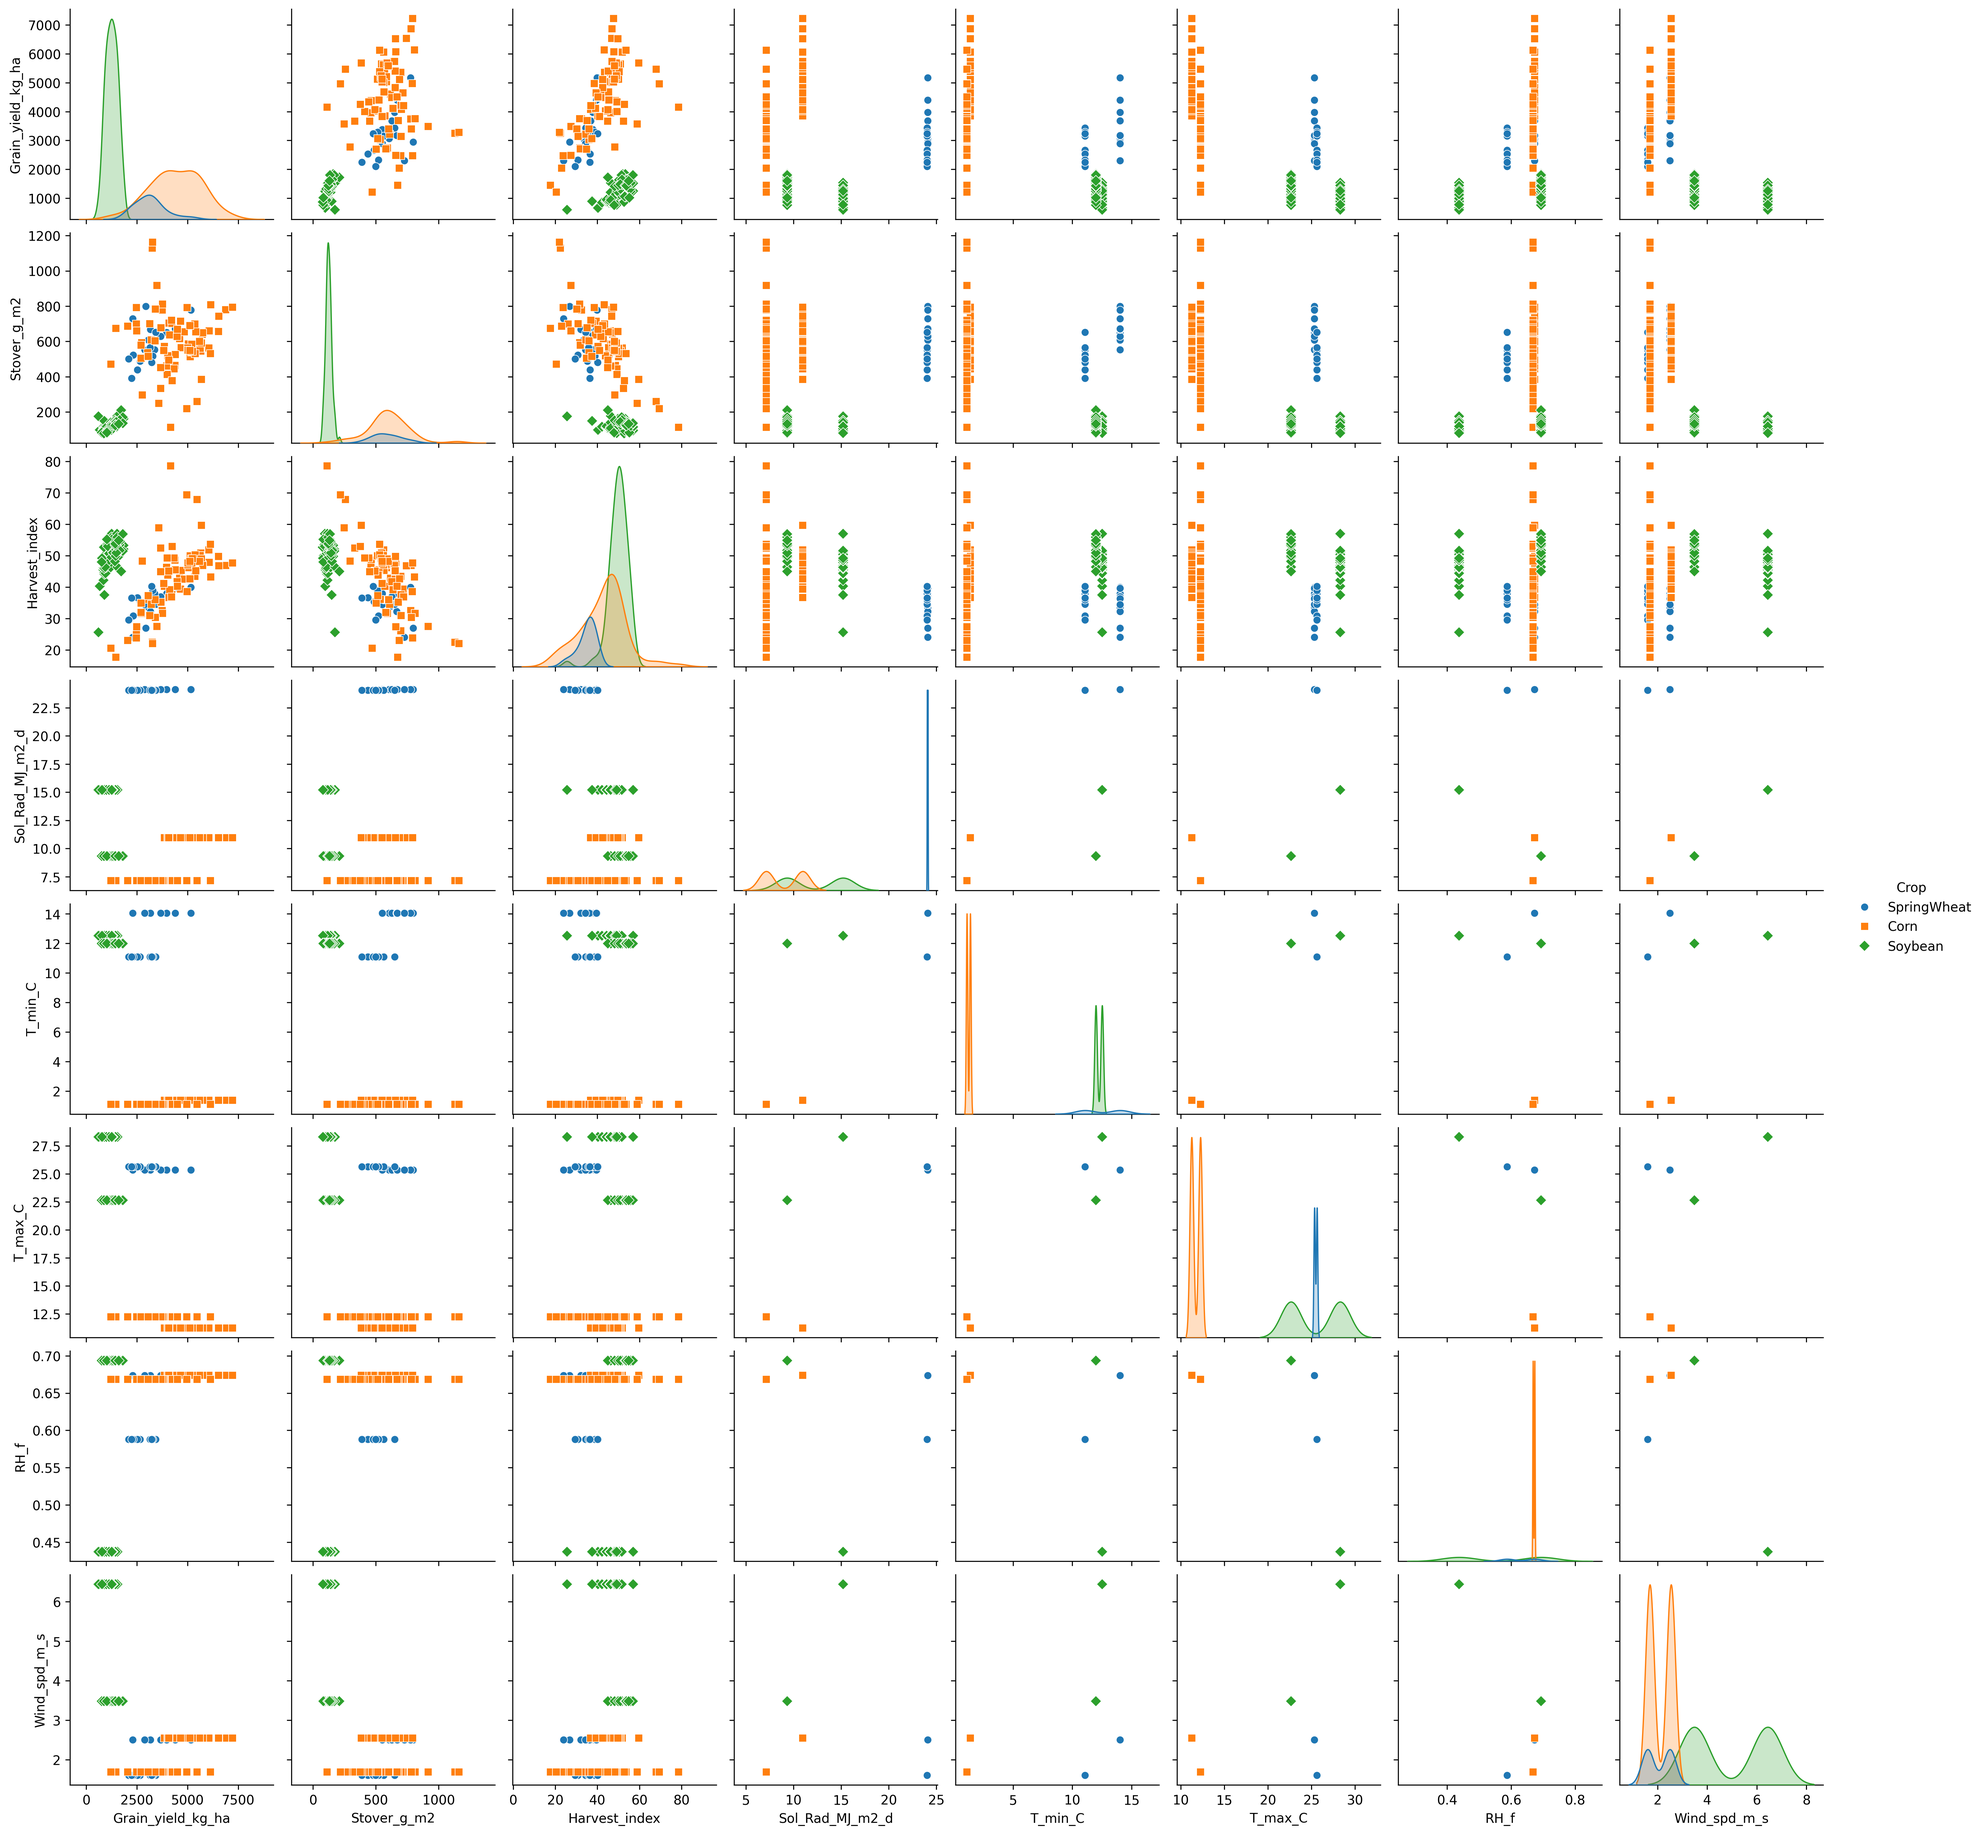
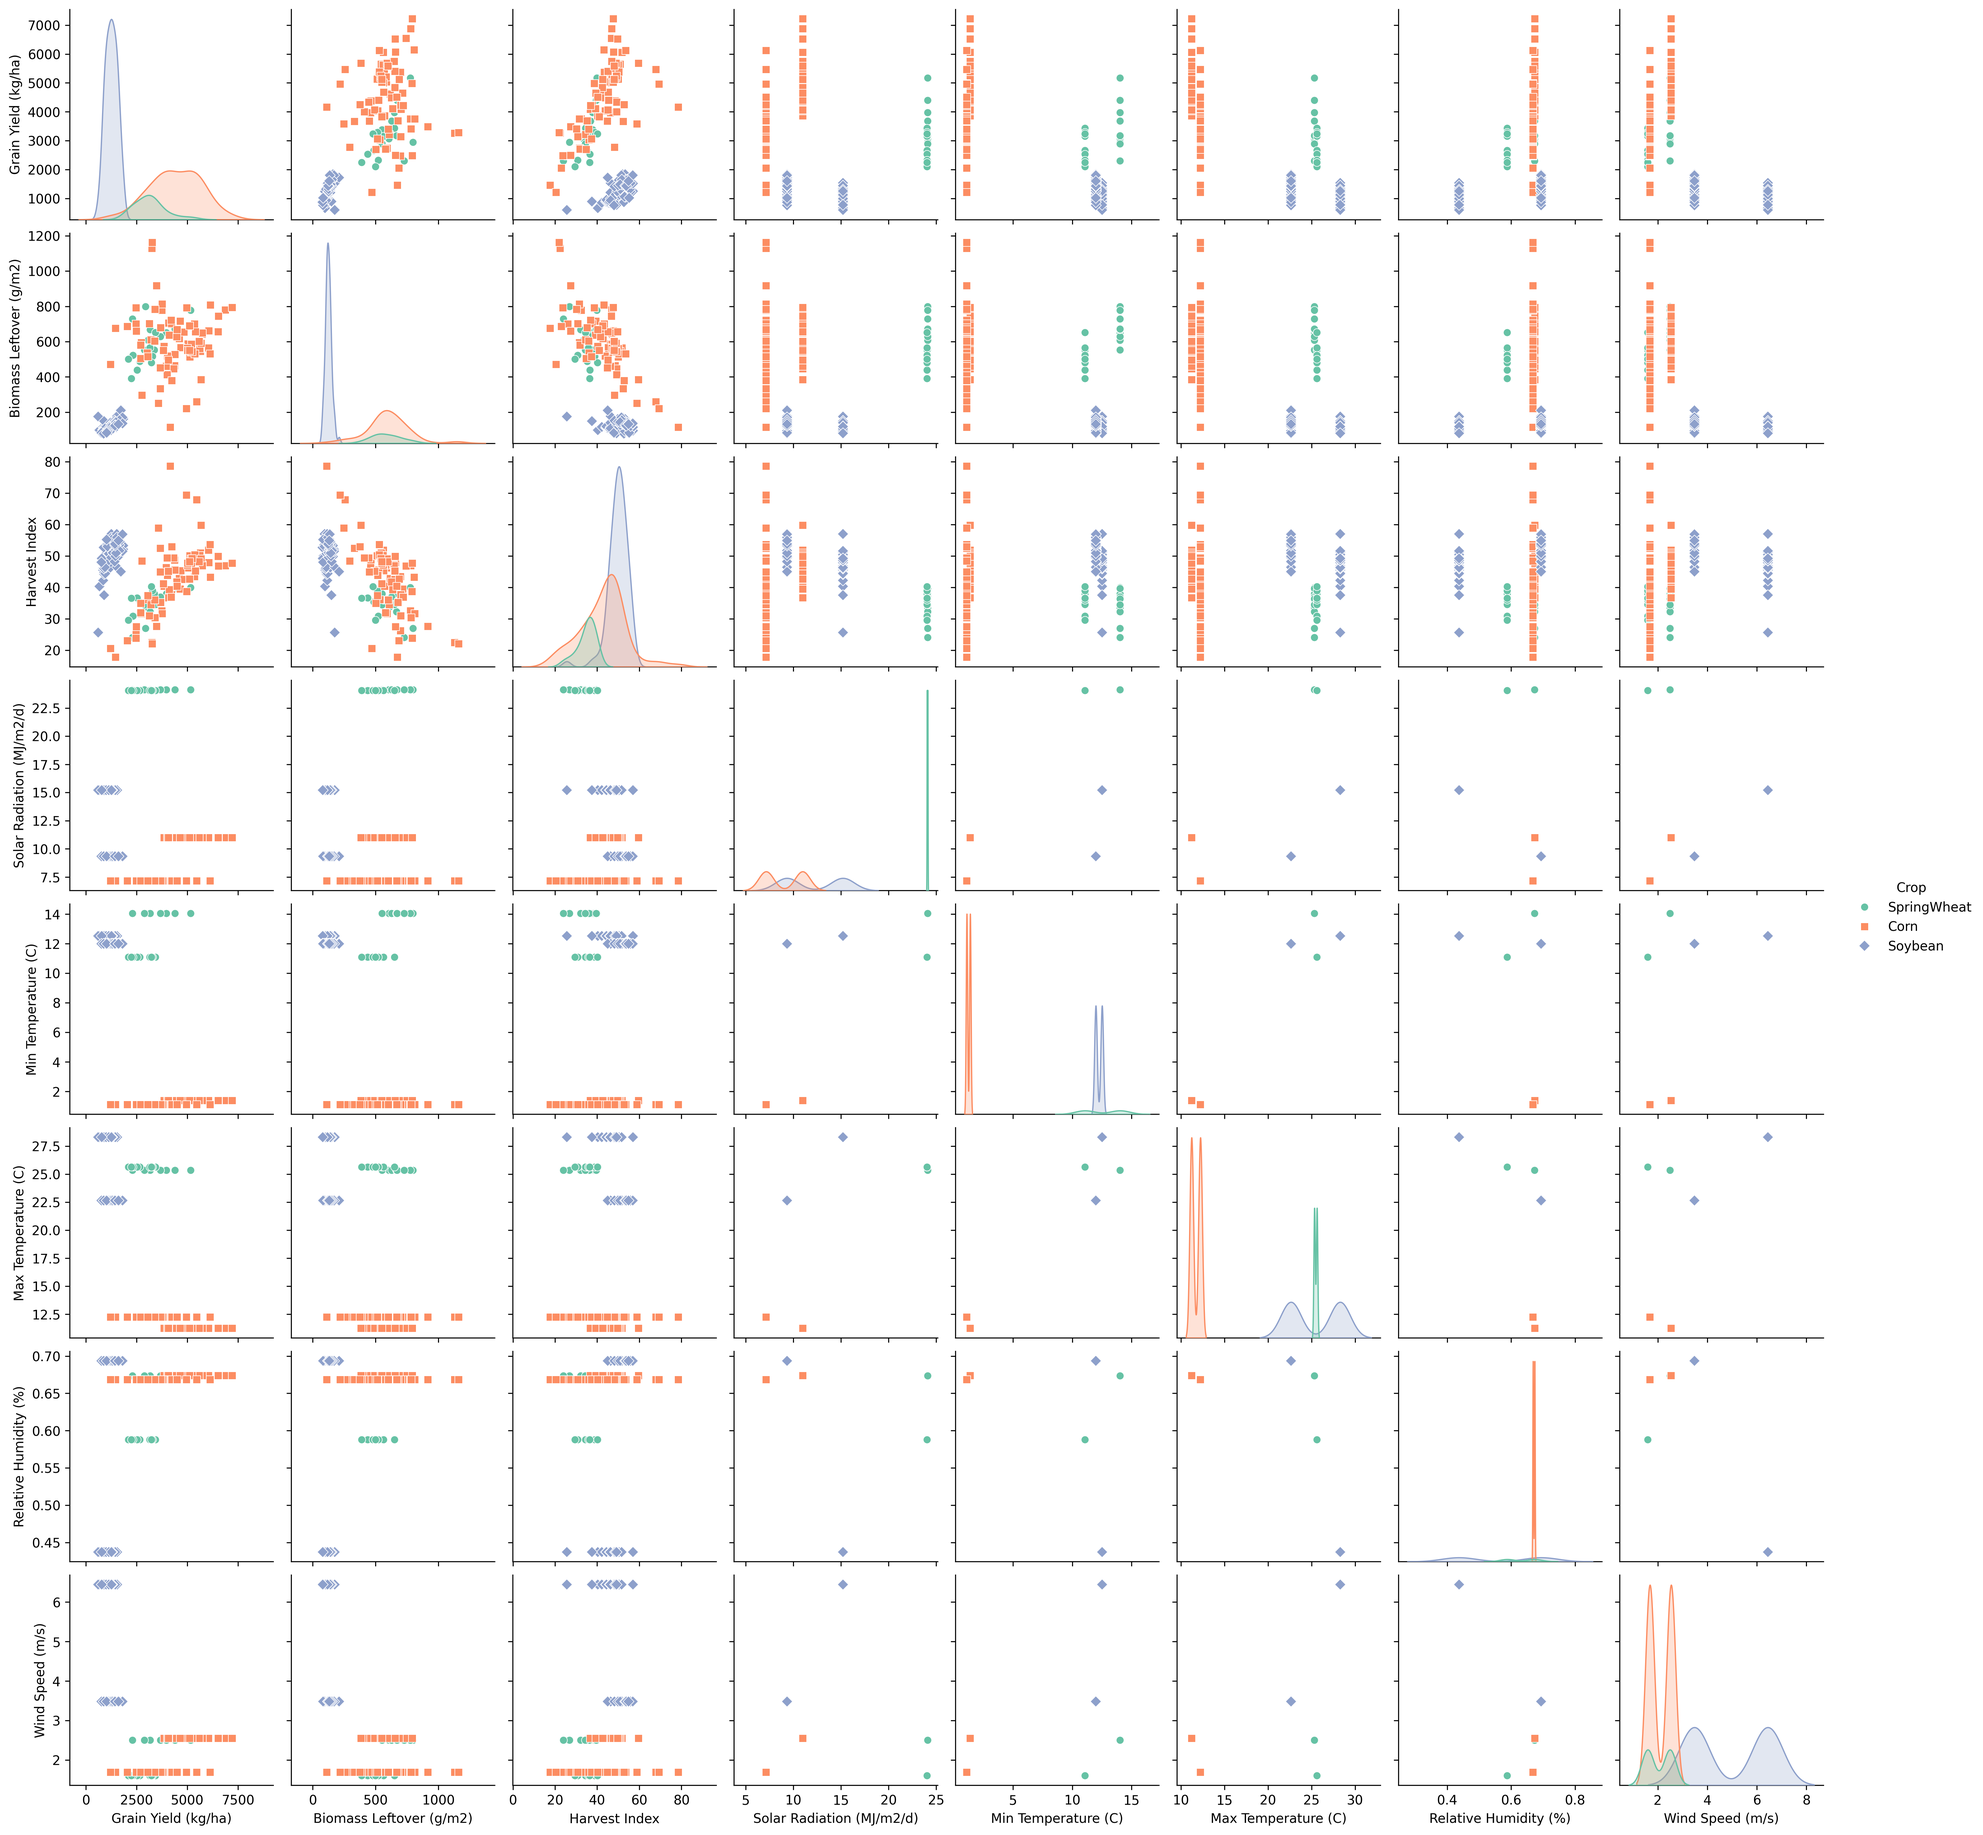
Adding Proper Labels
Renaming the axis names of Indians

diff --git a/charactersing_datasets/Inda_crop_yields_scatter.py b/charactersing_datasets/Inda_crop_yields_scatter.py
@@ -15,12 +15,22 @@ columns = ['District', 'Crop', 'Season', 'Area',
 print(df.columns)
 df = df[columns]
 
+df = df.rename(columns={
+    'Area': 'Area (Hectare)',
+    'Production': 'Production (Tonnes)',
+    'Yield': 'Yield (Tonnes/Hectare)',
+    'latitude': 'Latitude',
+    'longitude': 'Longitude'
+})
+df.drop(columns=['District', 'Season'], inplace=True)
+
+
 # Create a scatter plot matrix
-#sns.pairplot(df[['Area','Production', 'Yield', "Crop","latitude","longitude"]], diag_kind="kde",hue="Crop")
+sns.pairplot(df, diag_kind="kde",hue="Crop")
 #sns.pairplot(df, diag_kind='kde', corner=True)
 #print("Printing Time")
 # Show the plot
-#plt.savefig(os.getcwd() +'\charactersing_datasets\India_Agriculture_Crop_Seaborn_Matrix-Crop.png', dpi=300, bbox_inches='tight')
+plt.savefig(os.getcwd() +'\charactersing_datasets\India_Agriculture_Crop_Seaborn_Matrix-Crop.png', dpi=300, bbox_inches='tight')
 
 #sns.pairplot(df[['Area','Production', 'Yield', "Season"]], diag_kind="kde",hue="Season")
 #plt.savefig(os.getcwd() +'\charactersing_datasets\India_Agriculture_Crop_Seaborn_Matrix-Season.png', dpi=300, bbox_inches='tight')
@@ -29,8 +39,10 @@ df = df[columns]
 #plt.savefig(os.getcwd() +'\charactersing_datasets\India_Agriculture_Crop_Seaborn_Matrix-District.png', dpi=300, bbox_inches='tight')
 
 #sns.pairplot(df, diag_kind="kde")
-#plt.show()
+#plt.show()%
+plt.close()
+df.drop(columns=['Crop'], inplace=True)
 
-sns.heatmap(df[['Area','Production', 'Yield',"latitude","longitude"]].corr(), annot=True, cmap='coolwarm')
+sns.heatmap(df.corr(), annot=True, cmap='coolwarm')
 plt.title('Correlation Heatmap')
 plt.savefig(os.getcwd() +'\charactersing_datasets\India_Agriculture_Crop_Seaborn_Heatmap.png', dpi=300, bbox_inches='tight')

diff --git a/charactersing_datasets/H5_data_yields_scatter.py b/charactersing_datasets/H5_data_yields_scatter.py
@@ -12,18 +12,31 @@ columns = ['Crop', 'Treatment',
        'Sol_Rad_MJ_m2_d', 'T_min_C', 'T_max_C', 'RH_f',
        'Wind_spd_m_s']
 df = df[columns]
+
+df = df.rename(columns={
+    'Grain_yield_kg_ha': 'Grain Yield (kg/ha)',
+    'Stover_g_m2': 'Biomass Leftover (g/m2)',
+    'Harvest_index': 'Harvest Index',
+    'Sol_Rad_MJ_m2_d': 'Solar Radiation (MJ/m2/d)',
+    'T_min_C': 'Min Temperature (C)',
+    'T_max_C': 'Max Temperature (C)',
+    'RH_f': 'Relative Humidity (%)',
+    'Wind_spd_m_s': 'Wind Speed (m/s)'
+})
+
+
 print("hello_goodbye - World")
 
 # Create a scatter plot matrix
-#sns.pairplot(df, diag_kind="kde",hue="Crop", markers=["o", "s", "D"],)
-# sns.pairplot(df, diag_kind='kde', corner=True)
+sns.pairplot(df, diag_kind="kde",hue="Crop", palette="Set2", markers=["o", "s", "D", "P", "X"])
+#sns.pairplot(df, diag_kind="kde", hue="Crop", palette="Set2", markers=["o", "s", "D", "P", "X"], plot_kws={'alpha': 0.5})
+#sns.pairplot(df, diag_kind='kde', corner=True)
 
 # Show the plot
-#plt.savefig(os.getcwd() +'\charactersing_datasets\H5_USDA_Seaborn_Matrix.png', dpi=300, bbox_inches='tight')
-columns = [       'Grain_yield_kg_ha', 'Stover_g_m2', 'Harvest_index',
-       'Sol_Rad_MJ_m2_d', 'T_min_C', 'T_max_C', 'RH_f',
-       'Wind_spd_m_s']
-df = df[columns]
+plt.savefig(os.getcwd() +'\charactersing_datasets\H5_USDA_Seaborn_Matrix.png', dpi=300, bbox_inches='tight')
+plt.close()
+# Create a heatmap of the correlation matrix
+df.drop(columns=['Crop', 'Treatment'], inplace=True)
 
 sns.heatmap(df.corr(), annot=True, cmap='coolwarm')
 plt.title('H5 USA Dataset Correlation Heatmap')
